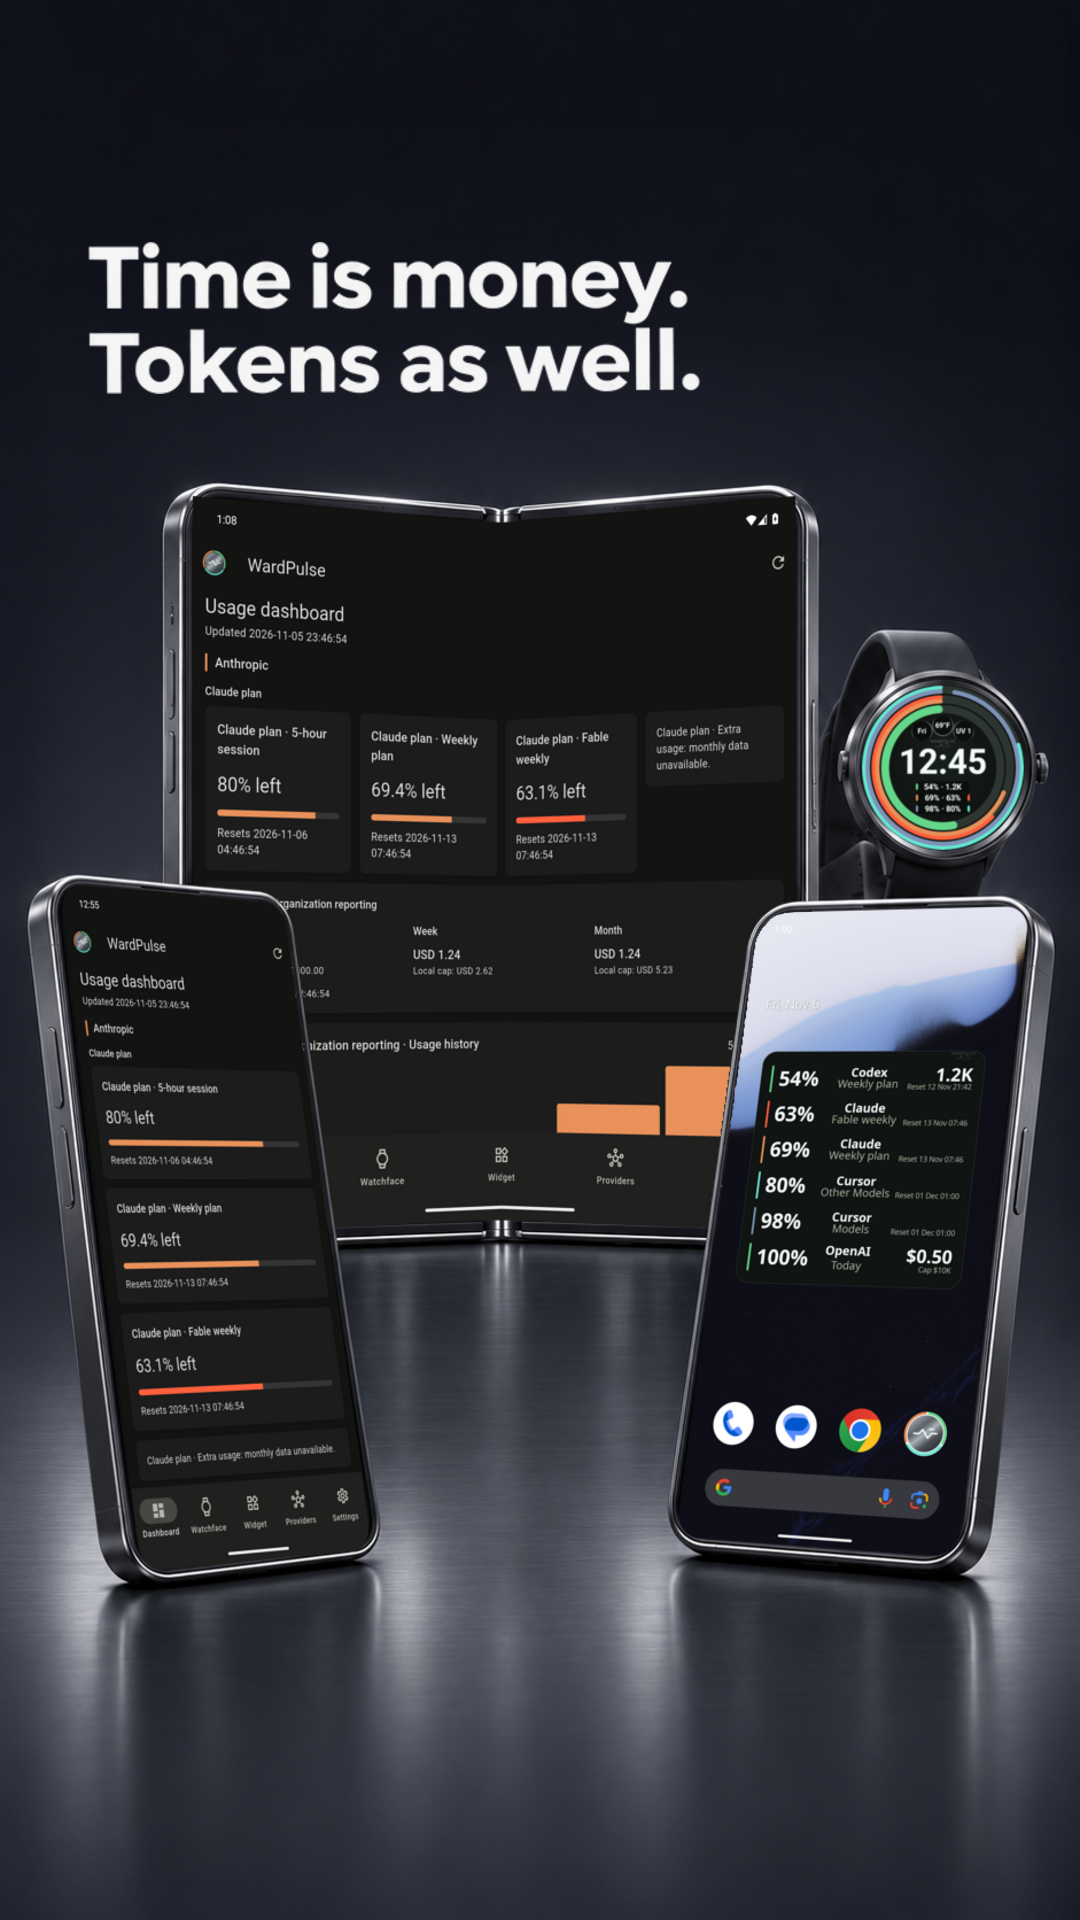
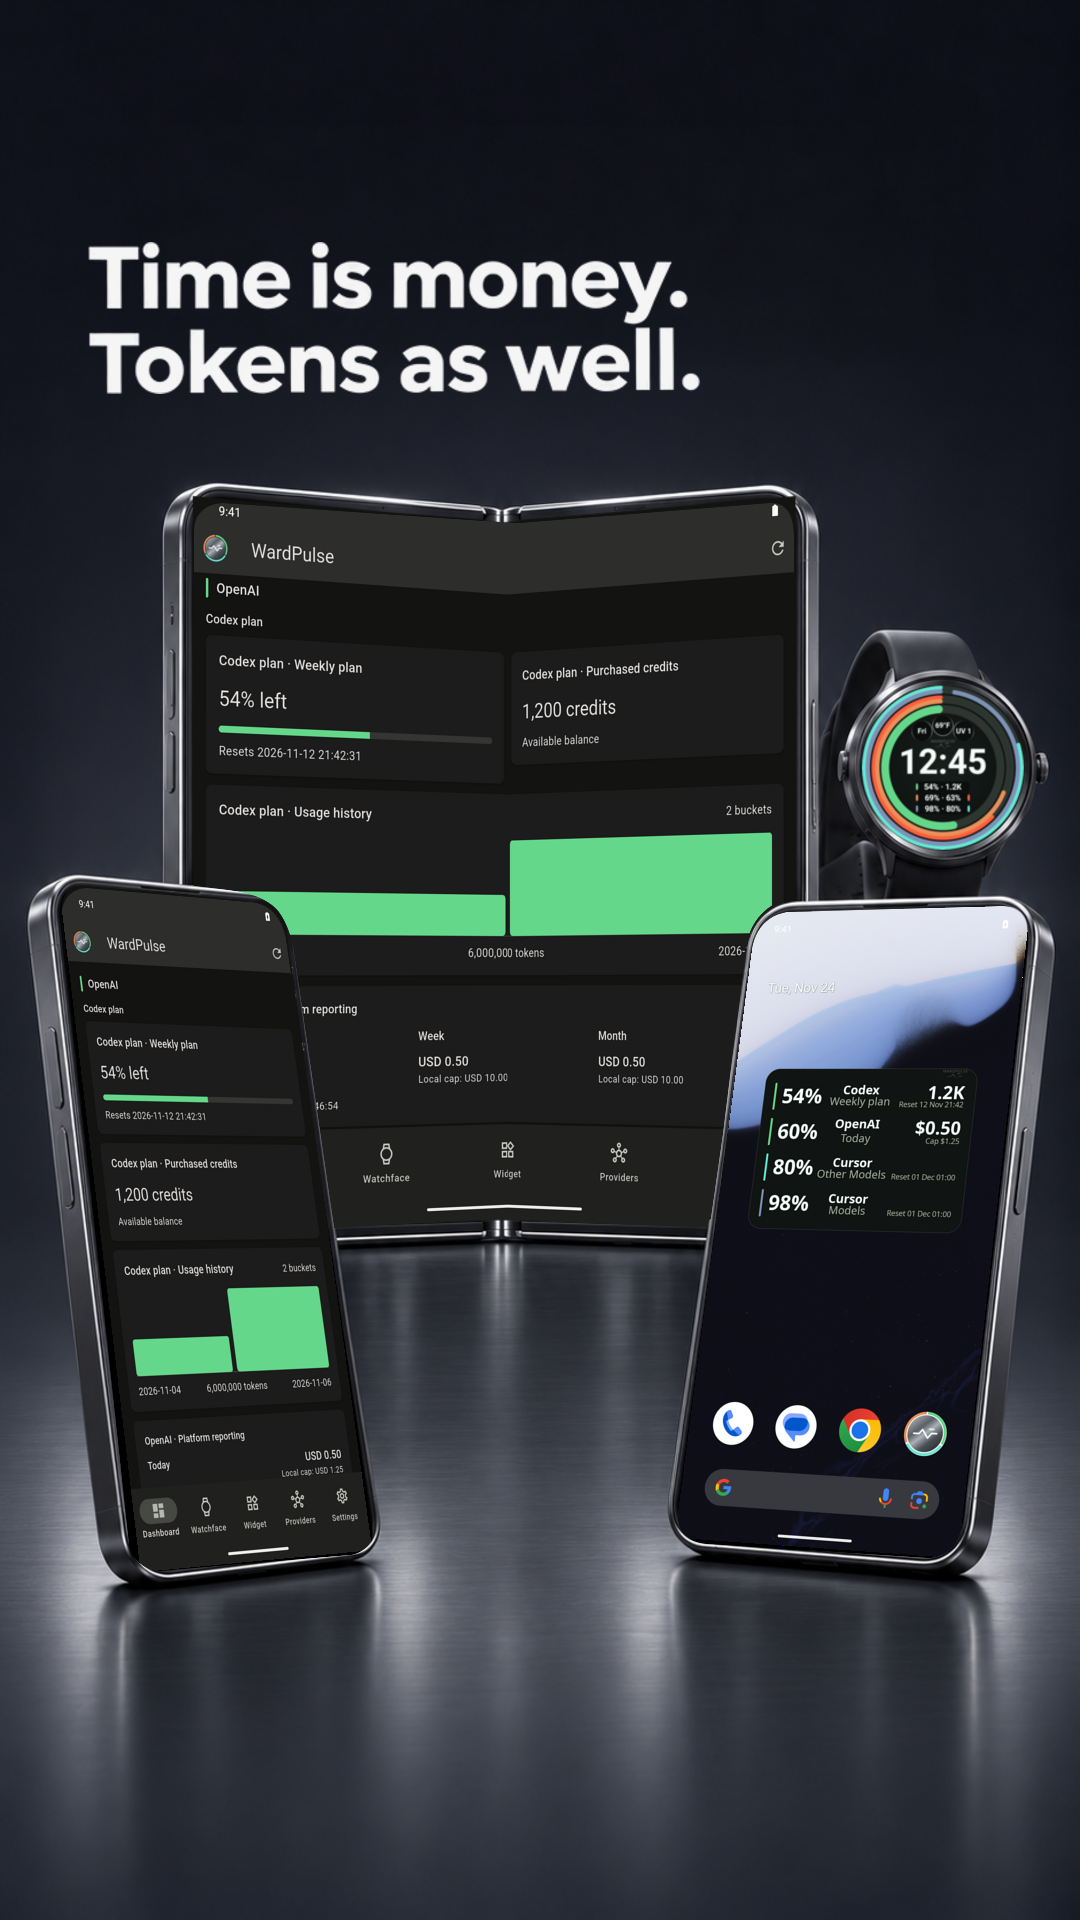
docs: refresh public previews for the Claude plan pause

Changed region(s): [[0.0611, 0.25, 0.9167, 0.8125], [0.4583, 0.5938, 0.4889, 0.625], [0.3361, 0.5938, 0.3667, 0.625]]

diff --git a/docs/assets/README.md b/docs/assets/README.md
@@ -4,6 +4,7 @@ This directory owns the public UI PNGs used by the site, root README and task-gu
 Apply [user-docs](../../.agents/skills/user-docs/SKILL.md) when capturing or reviewing them.
 Store assets have their own upload order and format. See the [phone gallery](store-phone/README.md),
 [foldable gallery](store-foldable/README.md), and [Wear OS and watch face gallery](store-wear/README.md).
+The [advertising assets](advertising/README.md) cover the Google Play Feature Graphic and Reddit ads.
 The store PNGs are covered by the [WardPulse brand usage rules](../../brand/README.md#usage-rules).
 
 Select up to three showcase subjects per platform for the landing/README gallery. Android
@@ -15,6 +16,16 @@ the original aspect ratio, and watch PNGs are 500×500px with transparent corner
 the circular screen.
 
 ## Screenshot index
+
+**Dashboard gallery refresh, 2026-11-24 (Europe/Paris).** Both themes show the same
+OpenAI demo view with Codex at 54% left, 1,200 purchased credits, six million tokens in
+usage history and USD 0.50 in Platform reporting. The overlapping Codex capacity and
+credit values agree with Glance. The phone captures were resized from 1080×2400 to 864×1920.
+
+| Documentation export | Captured UTC | Native SHA-256 | Export SHA-256 |
+| --- | --- | --- | --- |
[2 lines of base64/hex data omitted]
 
 **Glance refresh, 2026-11-22 (Europe/Paris).** The general Glance image was recaptured on the
 round Wear emulator with the same sample credits, percentages and ring selection as the
@@ -94,10 +105,10 @@ original-image-link checks for their respective exports.
 
 | File | Description | Theme | Date added | Captured | Last verified | Dimensions | App | Used in |
 | --- | --- | --- | --- | --- | --- | --- | --- | --- |
-| [phone-dashboard-overview-light.png](phone-dashboard-overview-light.png) | Phone Dashboard usage overview using the shared demo state. | Light | 2026-10-20 | 2026-11-06 | 2026-11-06 | 864×1920 | WardPulse phone | Light landing/README gallery |
-| [phone-dashboard-overview-dark.png](phone-dashboard-overview-dark.png) | Phone Dashboard usage overview using the shared demo state. | Dark | 2026-10-20 | 2026-11-06 | 2026-11-06 | 864×1920 | WardPulse phone | Dark landing/README gallery |
-| [phone-dashboard-light.png](phone-dashboard-light.png) | Claude unsupported-response warning and previous data. | Light | 2026-10-14 | 2026-10-18 | 2026-10-18 | 864×1920 | WardPulse phone | Light Troubleshooting guide, warning / previous-data example only |
-| [phone-dashboard-dark.png](phone-dashboard-dark.png) | Claude unsupported-response warning and previous data. | Dark | 2026-10-14 | 2026-10-18 | 2026-10-18 | 864×1920 | WardPulse phone | Dark Troubleshooting guide, warning / previous-data example only |
+| [phone-dashboard-overview-light.png](phone-dashboard-overview-light.png) | Demo Dashboard showing Codex weekly capacity, purchased credits, token history and OpenAI Platform reporting. | Light | 2026-10-20 | 2026-11-24 | 2026-11-24 | 864×1920 | WardPulse phone | Light landing/README gallery |
+| [phone-dashboard-overview-dark.png](phone-dashboard-overview-dark.png) | Demo Dashboard showing Codex weekly capacity, purchased credits, token history and OpenAI Platform reporting. | Dark | 2026-10-20 | 2026-11-24 | 2026-11-24 | 864×1920 | WardPulse phone | Dark landing/README gallery |
+| [phone-dashboard-light.png](phone-dashboard-light.png) | Historical Claude unsupported-response warning and previous data. | Light | 2026-10-14 | 2026-10-18 | 2026-10-18 | 864×1920 | WardPulse phone | Former Troubleshooting illustration, retired 2026-11-24 |
+| [phone-dashboard-dark.png](phone-dashboard-dark.png) | Historical Claude unsupported-response warning and previous data. | Dark | 2026-10-14 | 2026-10-18 | 2026-10-18 | 864×1920 | WardPulse phone | Former Troubleshooting illustration, retired 2026-11-24 |
 | [phone-providers-light.png](phone-providers-light.png) | Shared-state Providers: four visible Connected rows and independent actions, without a warning badge. | Light | 2026-10-14 | 2026-10-27 | 2026-10-27 | 864×1920 | WardPulse phone | Historical placements: Providers overview; Anthropic/Cursor connection examples; Getting started; Dashboard actions; active guide uses retired 2026-11-03 |
 | [phone-providers-dark.png](phone-providers-dark.png) | Shared-state Providers: four visible Connected rows and independent actions, without a warning badge. | Dark | 2026-10-14 | 2026-10-27 | 2026-10-27 | 864×1920 | WardPulse phone | Historical placements: Providers overview; Anthropic/Cursor connection examples; Getting started; Dashboard actions; active guide uses retired 2026-11-03 |
 | [phone-cursor-sign-in-help-light.png](phone-cursor-sign-in-help-light.png) | Cursor Help with Google/email recovery and Advanced paste; neutral Mock setup background. | Light | 2026-10-14 | 2026-10-28 | 2026-10-28 | 864×1920 | WardPulse phone | Light Cursor guide, Advanced paste |

diff --git a/docs/product/user-guide/WATCH.md b/docs/product/user-guide/WATCH.md
@@ -1,5 +1,10 @@
 # Watch and watch face
 
+:::danger
+Claude plan sign-in and monitoring are paused. Anthropic's policy restricts third-party apps
+from using Claude plan credentials.
+:::
+
 The Wear app shows a compact usage summary from your phone. The optional WardPulse face
 adds remaining-capacity rings. Connect providers and set budgets or alert rules on the phone.
 
@@ -29,9 +34,9 @@ to return to the previous page; from either home page, one dismissal leaves the 
 
 ![Clock-free Wear Glance showing selected plan capacity and available purchased credits.](/screenshots/wear-glance-overview.png)
 
-The selected metric with the lowest remaining percentage appears first. This example uses
-sample usage data. See the [refresh status legend](#refresh-status) for the control's colours
-and actions.
+The selected metric with the lowest remaining percentage appears first. This demo includes
+Claude plan and Fable readings. Both are paused in the public app. See the
+[refresh status legend](#refresh-status) for the control's colours and actions.
 
 ### Plan windows
 
@@ -44,8 +49,8 @@ rows; start outside the legend to change pages. Refresh and Alerts stay in place
 
 ![Plan windows showing a reported usage window and its reset time.](/screenshots/wear-plan-windows.png)
 
-This example shows a demo Claude plan window. Reset times belong to their reported windows
-and may differ between windows.
+This demo shows the reset time for a Claude plan window. Claude plan monitoring is paused
+in the public app. Other windows may reset at different times.
 
 ### Alerts and refresh
 
@@ -78,7 +83,8 @@ that every provider is current or that a refresh reached the phone.
 
 ![Clock-free Wear Glance showing amber !OK, Stale and disabled Alerts: 0 in a circular screen.](/screenshots/wear-glance.png)
 
-This example shows amber **!OK** with **Stale**: the saved summary needs a newer report.
+This earlier capture shows amber **!OK** with **Stale** when the saved summary needs a
+newer report. It includes a Claude plan reading from before the pause.
 **Alerts: 0** is disabled because there are no active alerts.
 
 If **Ring data unavailable** replaces the rows, none of the selected rings has displayable
@@ -216,9 +222,9 @@ permission-decline image above does not illustrate this separate-installation ch
 
 ![WardPulse circular watch face with the selected usage bands and populated default upper cells.](/screenshots/wear-watch-face.png)
 
-This face and the general Glance example use the same demo data and ring selection. Shared
-bands show separate remaining percentages; purchased credits appear where applicable. The
-upper cells show the day, temperature and UV index.
+This face and the general Glance example use the same demo data and ring selection, including
+Claude plan and Fable readings. Shared bands show separate remaining percentages, and purchased
+credits appear where applicable. The upper cells show the day, temperature and UV index.
 
 The three upper complication cells are customized in the **system watch-face editor**. Open
 the watch's edit/customize action for WardPulse and select an upper cell to choose an available

diff --git a/docs/assets/advertising/README.md b/docs/assets/advertising/README.md
@@ -1,0 +1,29 @@
+# WardPulse advertising assets
+
+These images use actual WardPulse screens with sample usage and anonymous device illustrations.
+The [WardPulse brand usage rules](../../../brand/README.md#usage-rules) apply to this artwork.
+
+## Google Play
+
+| Asset | Dimensions | Description |
+| --- | --- | --- |
+| [Feature Graphic](google-play/feature-graphic.png) | 1024 × 500 | WardPulse wordmark and the usage dashboard on an unfolded device. |
+
+The device and interface come from the [Foldable store cover](../store-foldable/0-cover.png).
+Use the graphic in the Feature Graphic field. [Play Console graphics requirements](https://support.google.com/googleplay/android-developer/answer/9866151)
+
+## Reddit
+
+| Concept | Portrait 1080 × 1350 | Landscape 1440 × 1080 | Suggested ad headline |
+| --- | --- | --- | --- |
+| Wear | [4:5](reddit/01-wear-4x5.png) | [4:3](reddit/01-wear-4x3.png) | Check AI plan limits at a glance on Wear OS. |
+| Phone | [4:5](reddit/02-phone-4x5.png) | [4:3](reddit/02-phone-4x3.png) | Track AI plan limits and API spend on Android. |
+| Combined | [4:5](reddit/03-combined-4x5.png) | [4:3](reddit/03-combined-4x3.png) | See your AI usage on your phone and wrist. |
+
+- **Wear** uses the two foreground watches and the background dashboard from the [Wear cover](../store-wear/0-cover.png).
+- **Phone** uses the wide dashboard on the anonymous device from the [Foldable cover](../store-foldable/0-cover.png).
+- **Combined** uses the phone, widget and watch layout from the [alternate phone cover](../store-phone/0-cover-alternate.png).
+
+All exports use a dark studio background and the existing WardPulse mark. Set the ad headline and
+call to action in Reddit Ads Manager. Preview the placement with the intended destination.
+[Reddit image ad specifications](https://business.reddithelp.com/articles/Knowledge/image-ad-specifications)

diff --git a/docs/assets/store-phone/README.md b/docs/assets/store-phone/README.md
@@ -1,16 +1,16 @@
 # Phone store gallery
 
 Google Play phone listing, in upload order. Choose one cover for slot 0. All files are
-1080 × 1920 RGB PNGs, added and reviewed on 2026-11-22. The screenshots were captured on
-2026-11-22 from an Android emulator with sample usage data. The covers place app captures
-inside illustrated, unbranded hardware.
+1080 × 1920 RGB PNGs. The screenshots were captured on an Android emulator on 2026-11-24
+(Europe/Paris) and show sample usage data. The covers place app captures inside illustrated,
+unbranded hardware.
 
 | Slot | File | Content |
 | --- | --- | --- |
 | 0 | [Cover](0-cover.png) | Unfolded phone with Dashboard, a phone with the home widget, and the watch face. |
 | 0, alternate | [Alternate cover](0-cover-alternate.png) | Dashboard and widget phones in front of the unfolded phone, with the watch face at right. |
-| 1 | [Dashboard](1-dashboard-dark.png) | Dark theme. Claude 5-hour, weekly and Fable allowances with reset times. |
-| 2 | [Home widget](2-home-widget-dark.png) | Dark theme. Five visible rows at the captured home widget size. |
-| 3 | [Widget settings](3-widget-settings-light.png) | Light theme. Six selected metrics. |
+| 1 | [Dashboard](1-dashboard-dark.png) | Dark theme. Codex weekly capacity, purchased credits and token usage history with its date range. |
+| 2 | [Home widget](2-home-widget-dark.png) | Dark theme. Four rows with Codex weekly capacity and credits, OpenAI spend and both Cursor allowances. |
+| 3 | [Widget settings](3-widget-settings-light.png) | Light theme. Selected Codex and Cursor metrics with Anthropic organization reporting options below. |
 
 [Google Play preview asset requirements](https://support.google.com/googleplay/android-developer/answer/9866151?hl=en-GB)

diff --git a/docs/product/user-guide/DASHBOARD.md b/docs/product/user-guide/DASHBOARD.md
@@ -1,5 +1,10 @@
 # Read the Dashboard
 
+:::danger
+Claude plan sign-in and monitoring are paused. Anthropic's policy restricts third-party apps
+from using Claude plan credentials.
+:::
+
 Open **Dashboard** to see the reporting available from your connected providers. Related plan
 and API connections appear together under their provider family: OpenAI, Anthropic or Cursor.
 Each connection keeps its own data and status. Not every account provides spend, model detail,
@@ -9,8 +14,8 @@ With no connected providers, Dashboard shows **Connect a provider**. Saved alert
 budget limits leave this idle state healthy. They do not supply usage reports or prove a
 successful sync.
 
-[Claude plan monitoring](/guide/providers-anthropic#claude-plan), including Fable and
-Extra usage, is temporarily unavailable in the public app.
+See [Claude plan](/guide/providers-anthropic#claude-plan) for how this affects Fable and
+Extra usage.
 
 ## Display order
 

diff --git a/docs/product/user-guide/TROUBLESHOOTING.md b/docs/product/user-guide/TROUBLESHOOTING.md
@@ -94,13 +94,6 @@ or repair a billing problem.
 network access and refresh on the phone. Earlier successful values and their timestamps can
 survive restart, but a connection with no successful report has no data to recover.
 
-![Dashboard showing previous data and a Claude unsupported-response warning in the light theme.](/screenshots/phone-dashboard-light.png)
-
-![Dashboard showing previous data and a Claude unsupported-response warning in the dark theme.](/screenshots/phone-dashboard-dark.png)
-
-These earlier captures show **Showing previous data** alongside a failed Claude report.
-The notice identifies data from an earlier report.
-
 If a provider reports a rate limit, wait for any supplied availability/reset time or try later.
 Repeated refresh taps cannot remove a provider limit. A successful report may still contain
 unchanged values, especially for reporting such as Cursor Team Admin API.

diff --git a/docs/product/user-guide/PROVIDERS_ANTHROPIC.md b/docs/product/user-guide/PROVIDERS_ANTHROPIC.md
@@ -1,12 +1,15 @@
 # Anthropic
 
 Use **Organization reporting** to see your Claude Console organization's API expenses and
-usage. **Claude plan** is temporarily unavailable in the public app.
+usage.
 
 ## Claude plan
 
-WardPulse has paused Claude plan sign-in and monitoring in the public app because
-Anthropic's policy restricts third-party apps from using Claude plan credentials.
+:::danger
+Claude plan sign-in and monitoring are paused. Anthropic's policy restricts third-party apps
+from using Claude plan credentials.
+:::
+
 Tap the grey **Connect** button under **Providers → Anthropic → Claude plan** to read
 the explanation. [Anthropic's authentication policy](https://code.claude.com/docs/en/legal-and-compliance#authentication-and-credential-use)
 

diff --git a/README.md b/README.md
@@ -4,6 +4,10 @@ See your AI plan capacity, purchased balances and API spend on Android. WardPuls
 reporting from OpenAI, Anthropic and Cursor into one phone dashboard, with an optional
 Wear OS summary, watch face and home-screen widget.
 
+> [!CAUTION]
+> Claude plan sign-in and monitoring are paused. Anthropic's policy restricts third-party apps
+> from using Claude plan credentials.
+
 [![User Guide](docs/assets/user-guide-button.png)](https://neuroborus.github.io/ward-pulse/)
 
 Gallery screenshots show demo usage data.

diff --git a/docs/product/user-guide/WIDGET.md b/docs/product/user-guide/WIDGET.md
@@ -1,5 +1,10 @@
 # Home widget
 
+:::danger
+Claude plan sign-in and monitoring are paused. Anthropic's policy restricts third-party apps
+from using Claude plan credentials.
+:::
+
 The WardPulse home widget shows selected allowances, reported expenses, applicable purchased
 credits and real reset times. It is updated from the phone's reporting and has its
 own metric choices.
